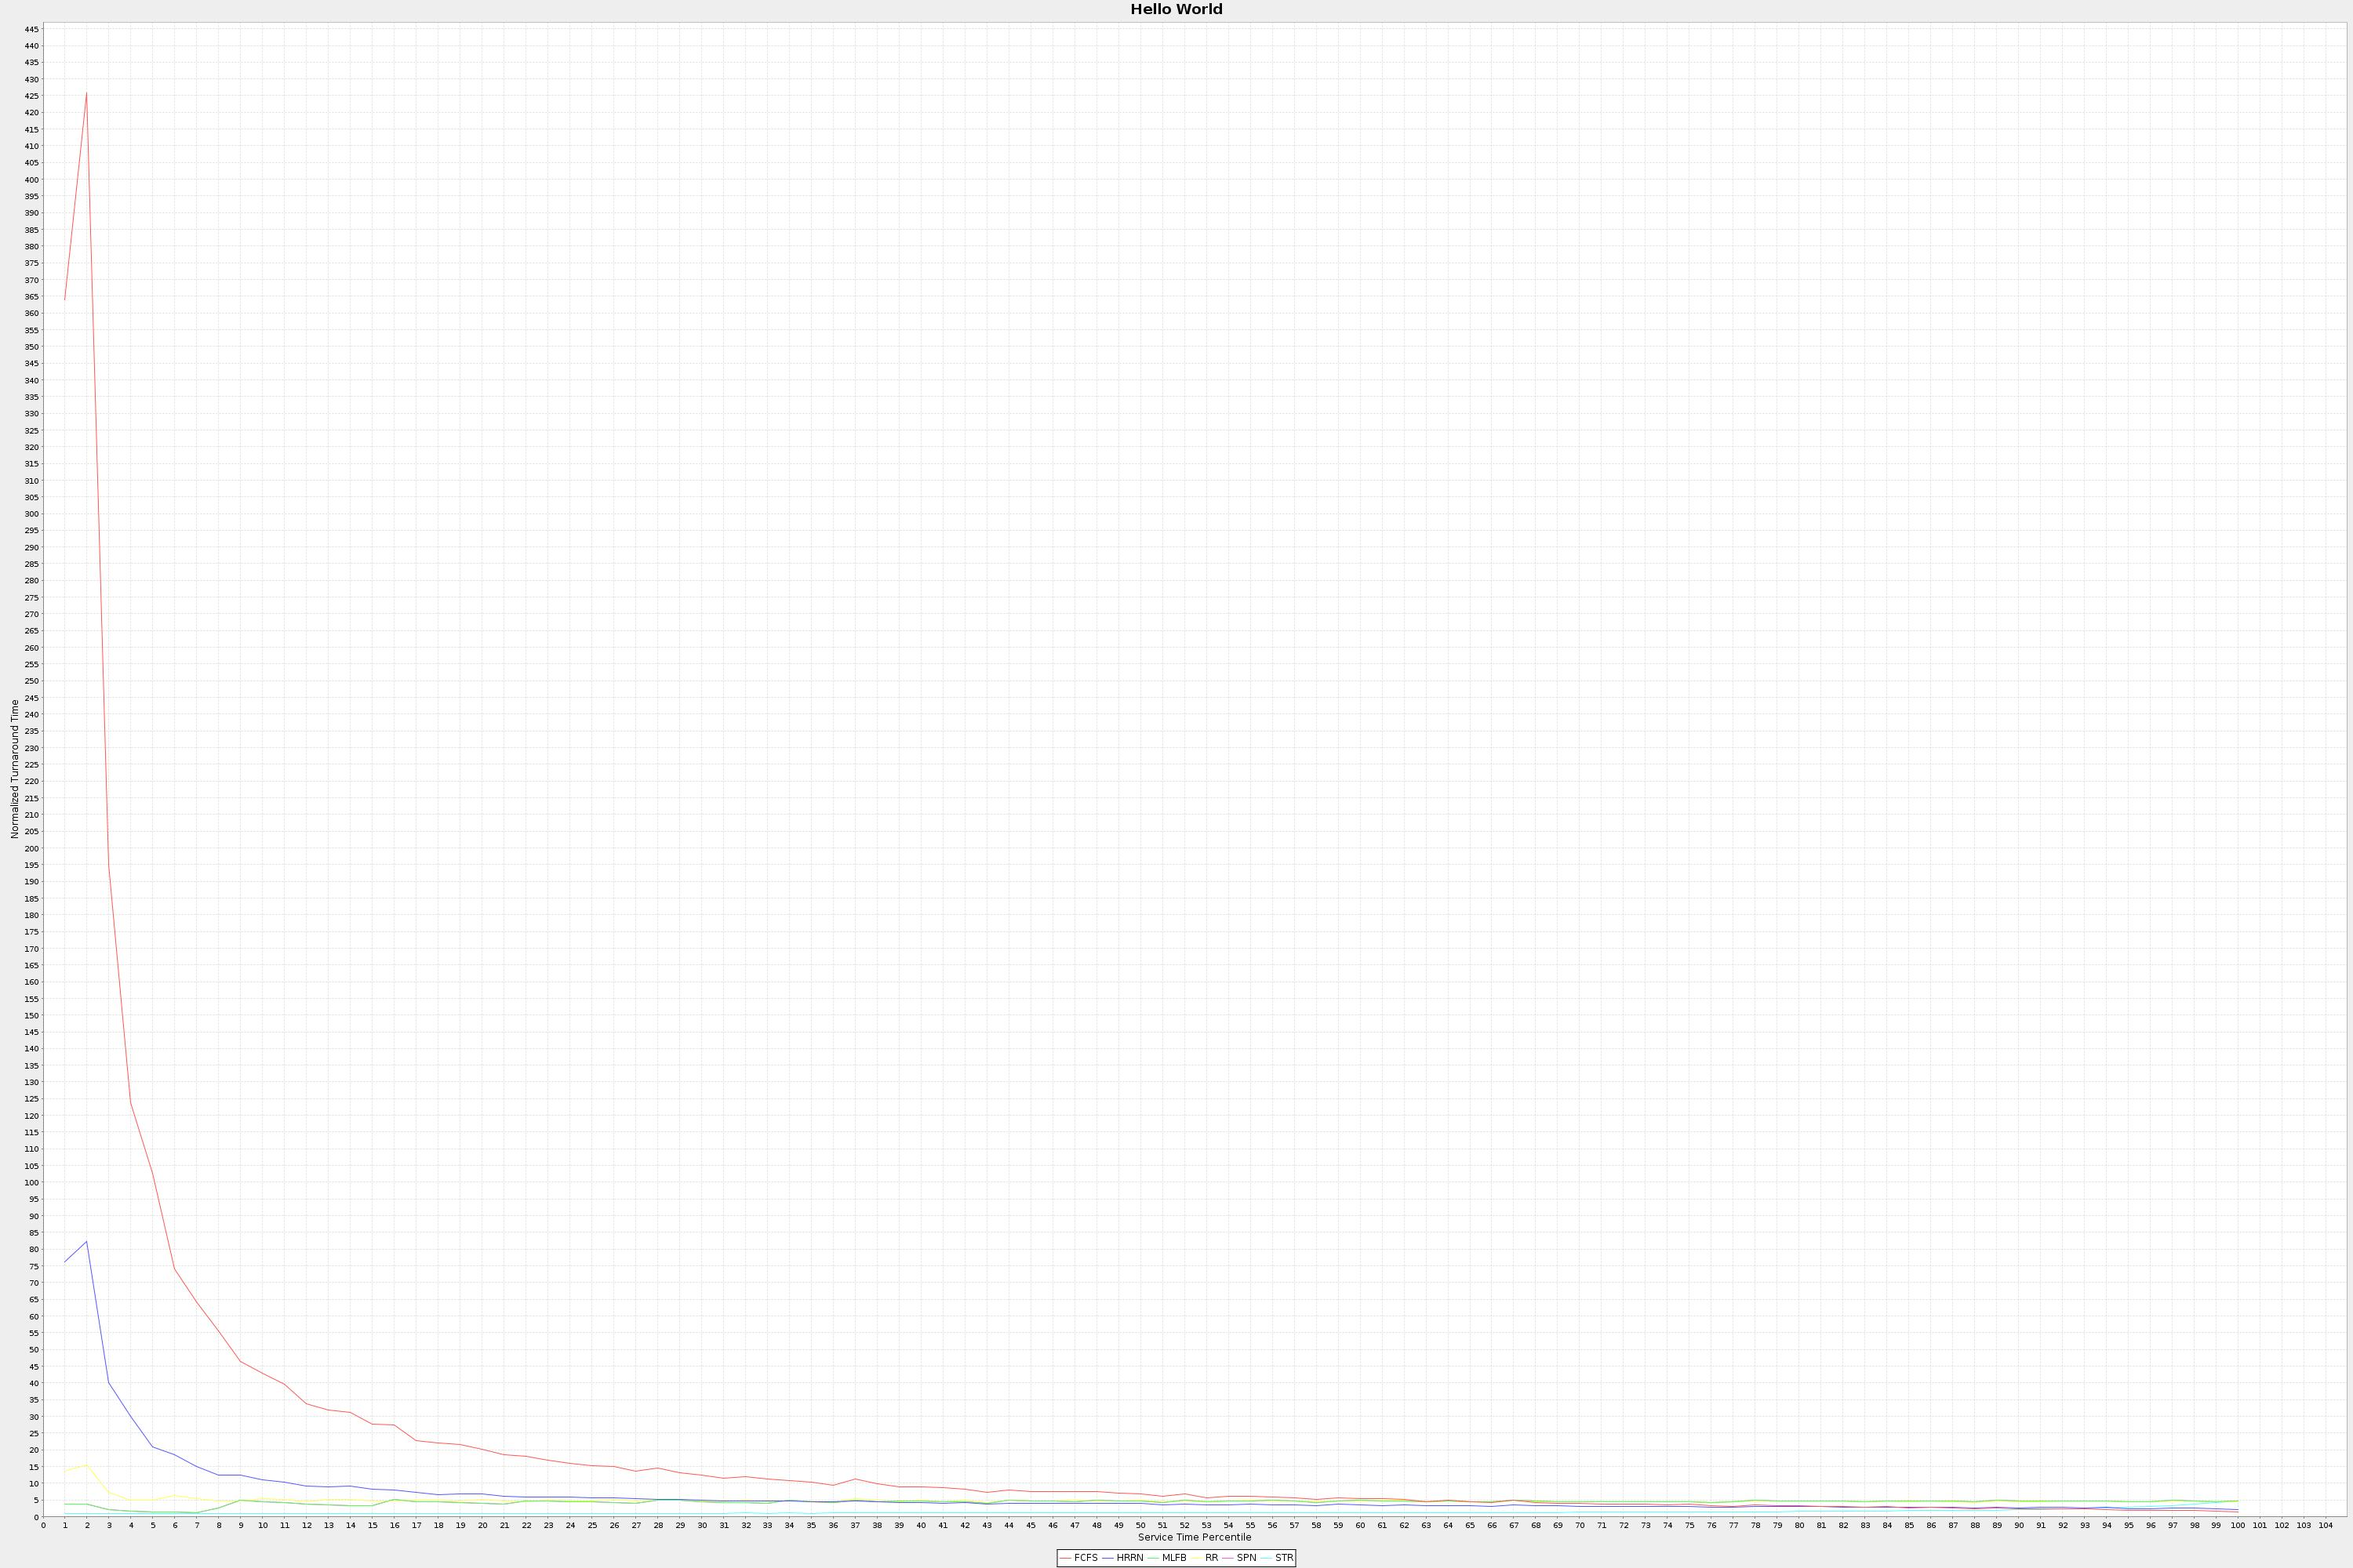
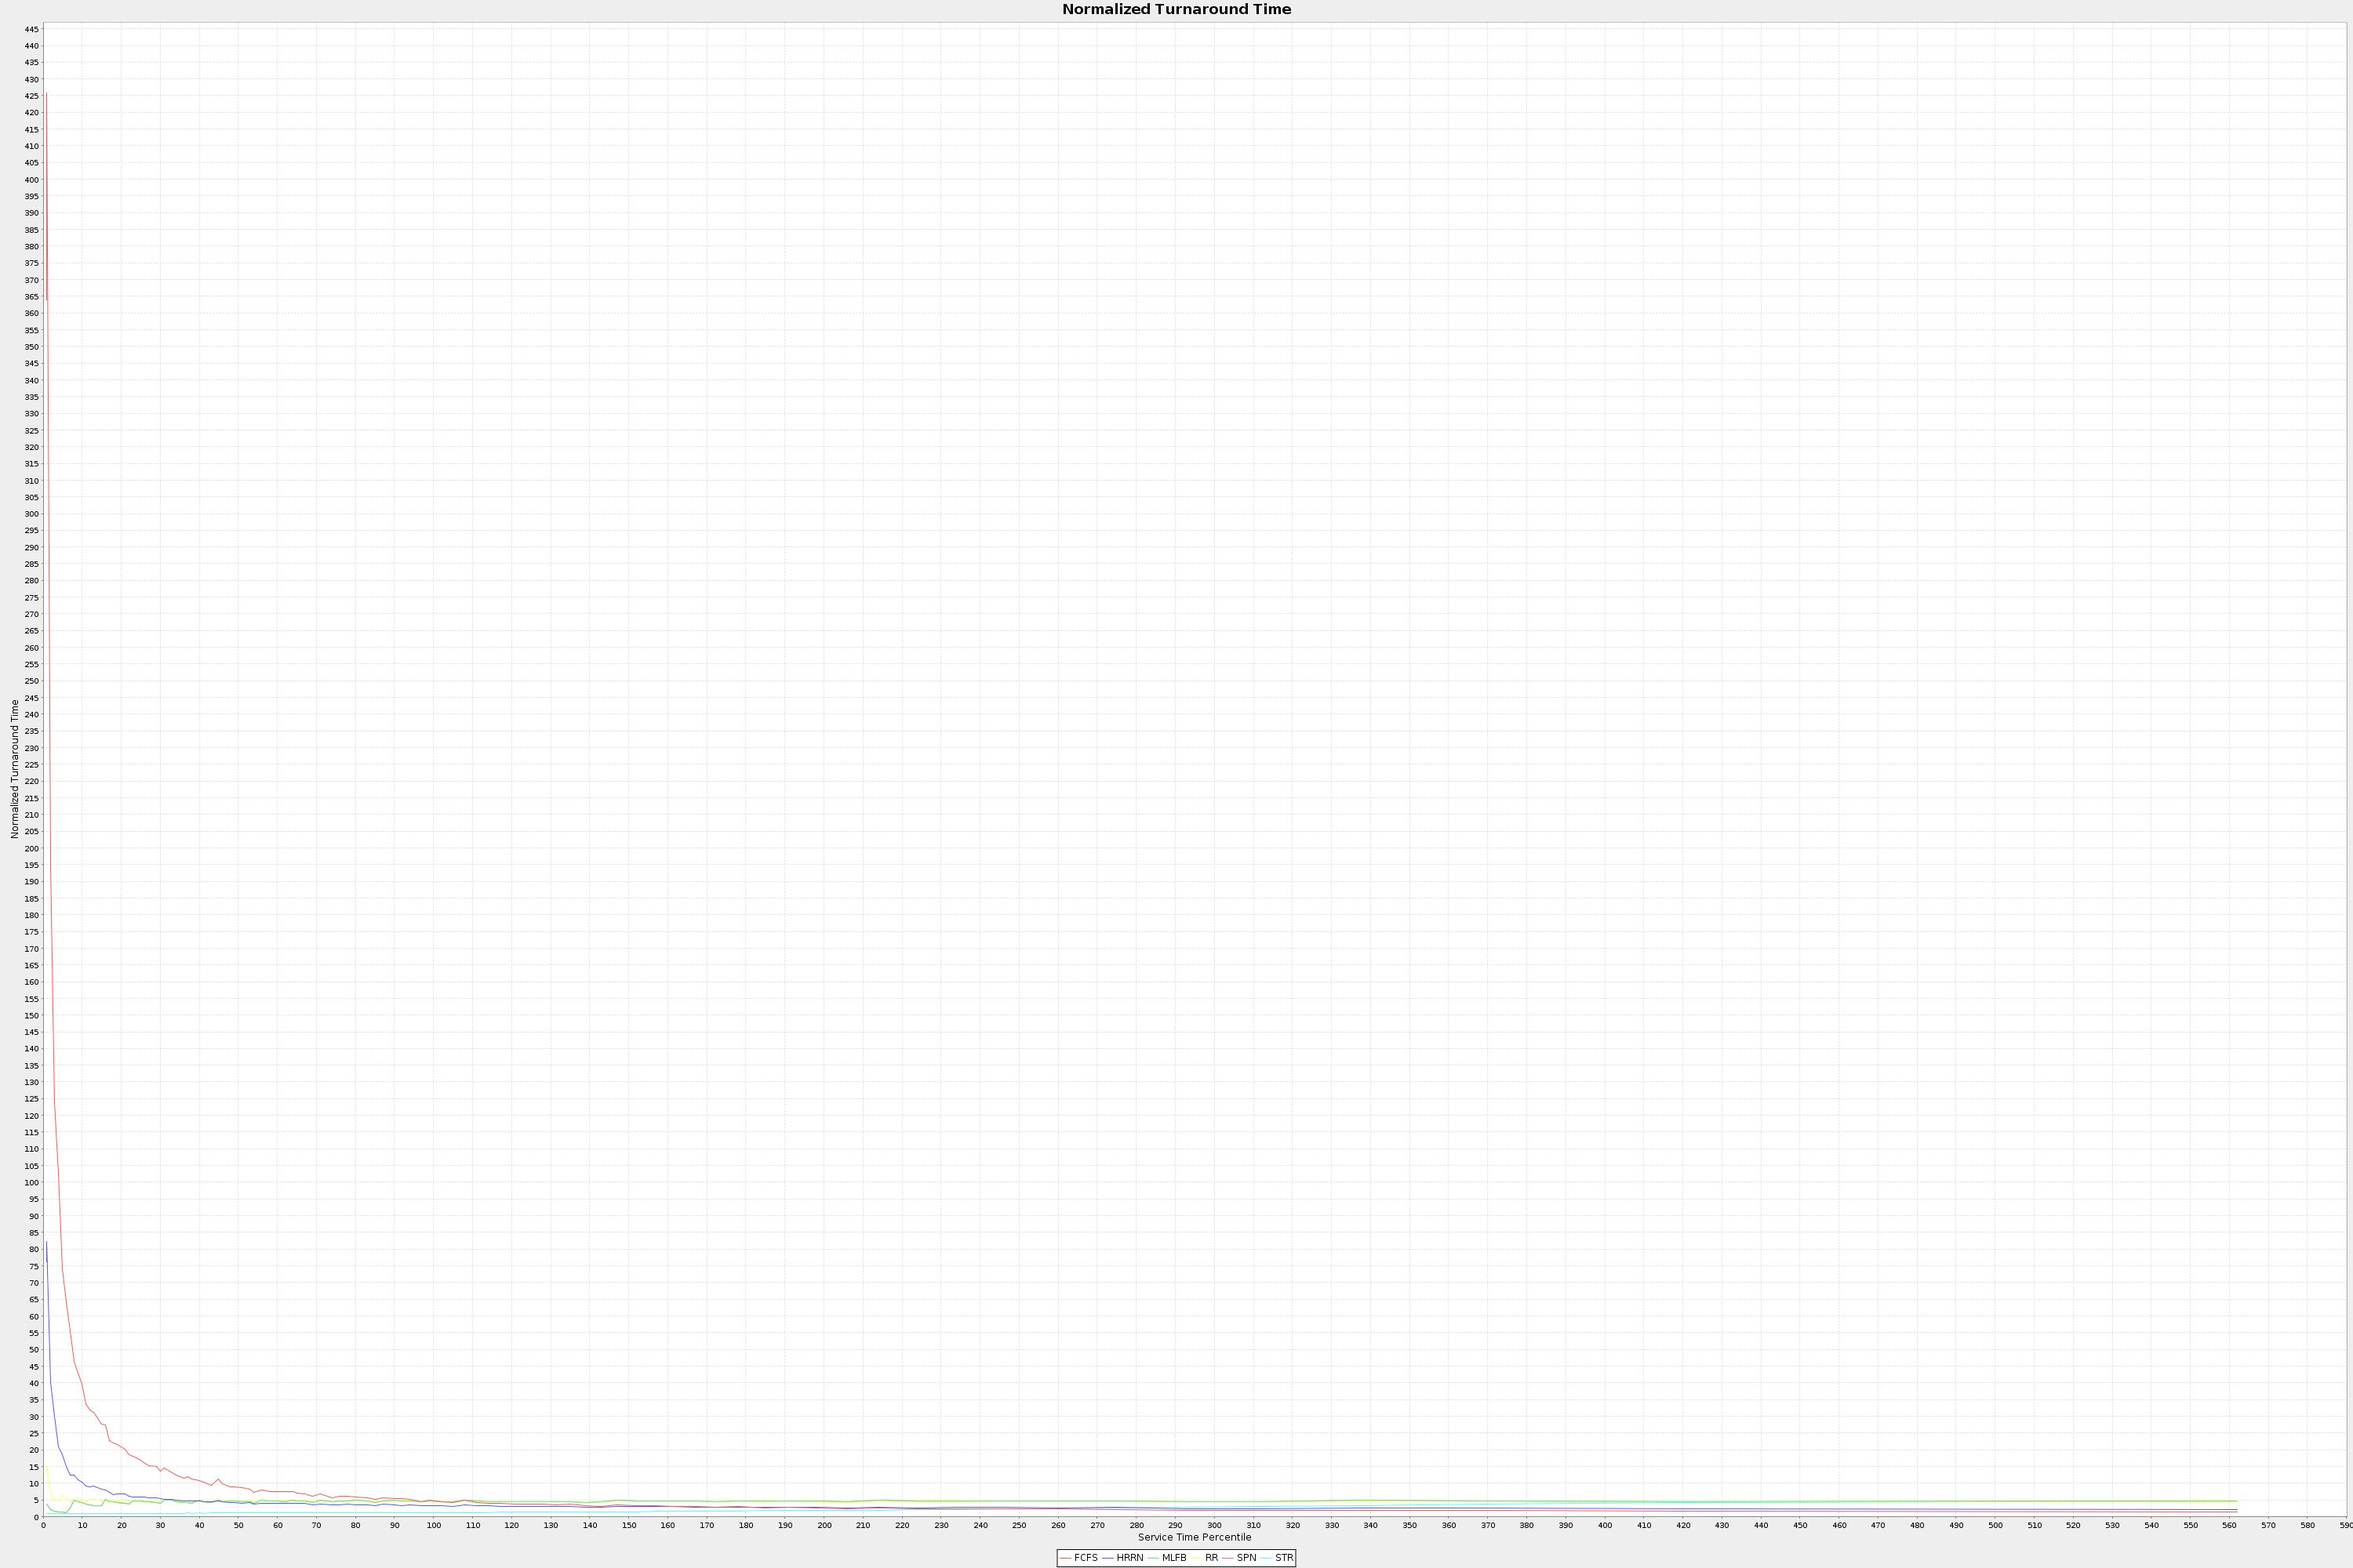
1graph fixed

Changed region(s): [[0.031, 0.93, 0.961, 0.992], [0.465, 0.0, 0.527, 0.031]]

diff --git a/src/sample/GraphData.java b/src/sample/GraphData.java
@@ -18,6 +18,7 @@ import static sample.Main.percentilePoints;
 public class GraphData {
     private static final int AANTALPERCENTIELEN = 100;
     private List<List<Process>> percentielen;
+    private double[] percentielWaarden;
 
     public static void generatePercentileGraph(Scheduler scheduler){
         GraphData gd = new GraphData((ArrayList) scheduler.getAllProcesses());
@@ -39,11 +40,12 @@ public class GraphData {
 
     public GraphData(ArrayList<Process> processen){
         int pointer=0;
+        percentielWaarden = new double[AANTALPERCENTIELEN];
 
         Collections.sort(processen);
 
         int aantalProcessenPerPercentiel = processen.size()/AANTALPERCENTIELEN;
-        percentielen = new LinkedList<List<Process>>();
+        percentielen = new LinkedList<>();
 
         LinkedList<Process> percentiel;
 
@@ -57,6 +59,7 @@ public class GraphData {
                 pointer++;
             }
 
+            percentielWaarden[i] = berekenGemiddeleServiceTime(percentiel);
             percentielen.add(percentiel);
         }
     }
@@ -81,7 +84,7 @@ public class GraphData {
          for(List<Process> percentiel : percentielen)
          {
              point = new double[2];
-             point[0] = counter;
+             point[0] = percentielWaarden[counter];
              point[1] = 0;
 
              for(Process process : percentiel)
@@ -170,11 +173,11 @@ public class GraphData {
 
         points = new LinkedList<>();
 
-        int counter=1;
+        int counter=0;
         for(List<Process> percentiel : percentielen)
         {
             point = new double[2];
-            point[0] = counter;
+            point[0] = percentielWaarden[counter];
             point[1] = 0;
 
             for(Process process : percentiel)

diff --git a/src/sample/Main.java b/src/sample/Main.java
@@ -180,6 +180,7 @@ public class Main extends Application  {
     }
 
     private static void doWork(){
+
         /*
         File file = new File("processen50000.xml");
 
@@ -207,6 +208,7 @@ public class Main extends Application  {
         strScheduler.startScheduling();
         GraphData.saveData(strScheduler, "STR-");
         */
+
 
         Chart percentileChart = makePercentileGraphChart();
         Chart relativePercentileChart = makeRelativePercentileChart();
